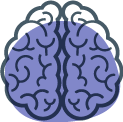
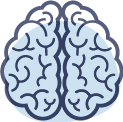
연구 분야 아이콘과 배너 색을 사이트 팔레트로 맞춤
- 아이콘 6개: 제각각이던 파스텔 배경(하늘·분홍·초록·보라·주황·빨강)을 한 가지 연한 파랑(#CDE2F1)으로,
  선 그림은 남색(#343F64)으로 다시 칠함. 픽셀마다 세 색(흰 면·선·배경)의 비율을 나눠 다시 합성해 가장자리 유지
- 청록 배너 그라디언트(#173a5c→#6cb2c9)를 브랜드 파랑 계열(#1a3256→#1f5689→#4f8ec6)로 조정 (연구 분야, 미래교육허브 하단)

diff --git a/src/pages/Hub.css b/src/pages/Hub.css
@@ -447,7 +447,7 @@
 }
 
 .hub-cta {
-  background: linear-gradient(120deg, #173a5c 0%, #1f6b8f 55%, #6cb2c9 100%);
+  background: linear-gradient(120deg, #1a3256 0%, #1f5689 55%, #4f8ec6 100%);
   color: #fff;
   text-align: center;
   padding: 72px 0;

diff --git a/src/index.css b/src/index.css
@@ -240,7 +240,7 @@ h4 {
 }
 
 .hero-teal {
-  background: linear-gradient(120deg, #173a5c 0%, #1f6b8f 55%, #6cb2c9 100%);
+  background: linear-gradient(120deg, #1a3256 0%, #1f5689 55%, #4f8ec6 100%);
 }
 
 .hero-slate {
